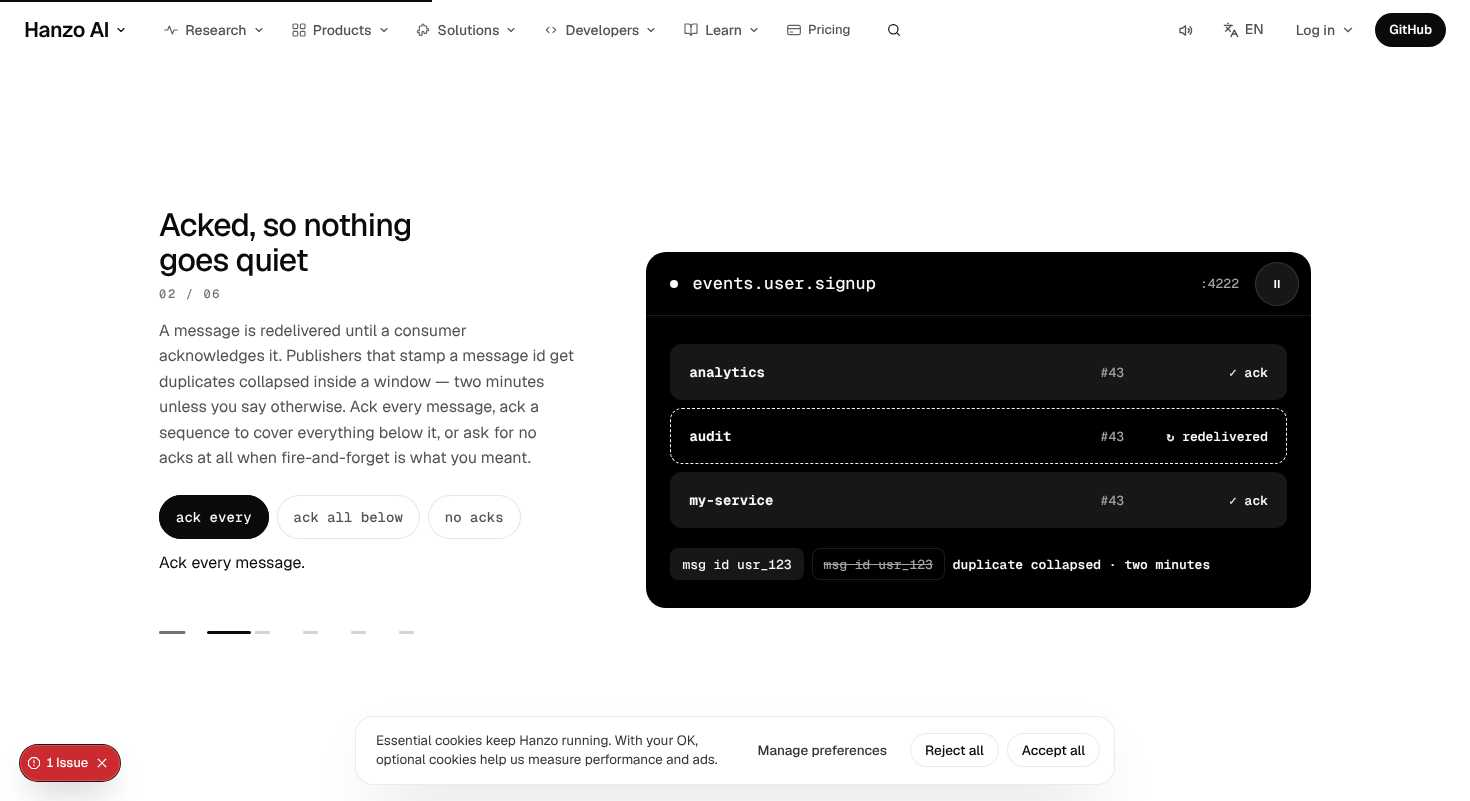
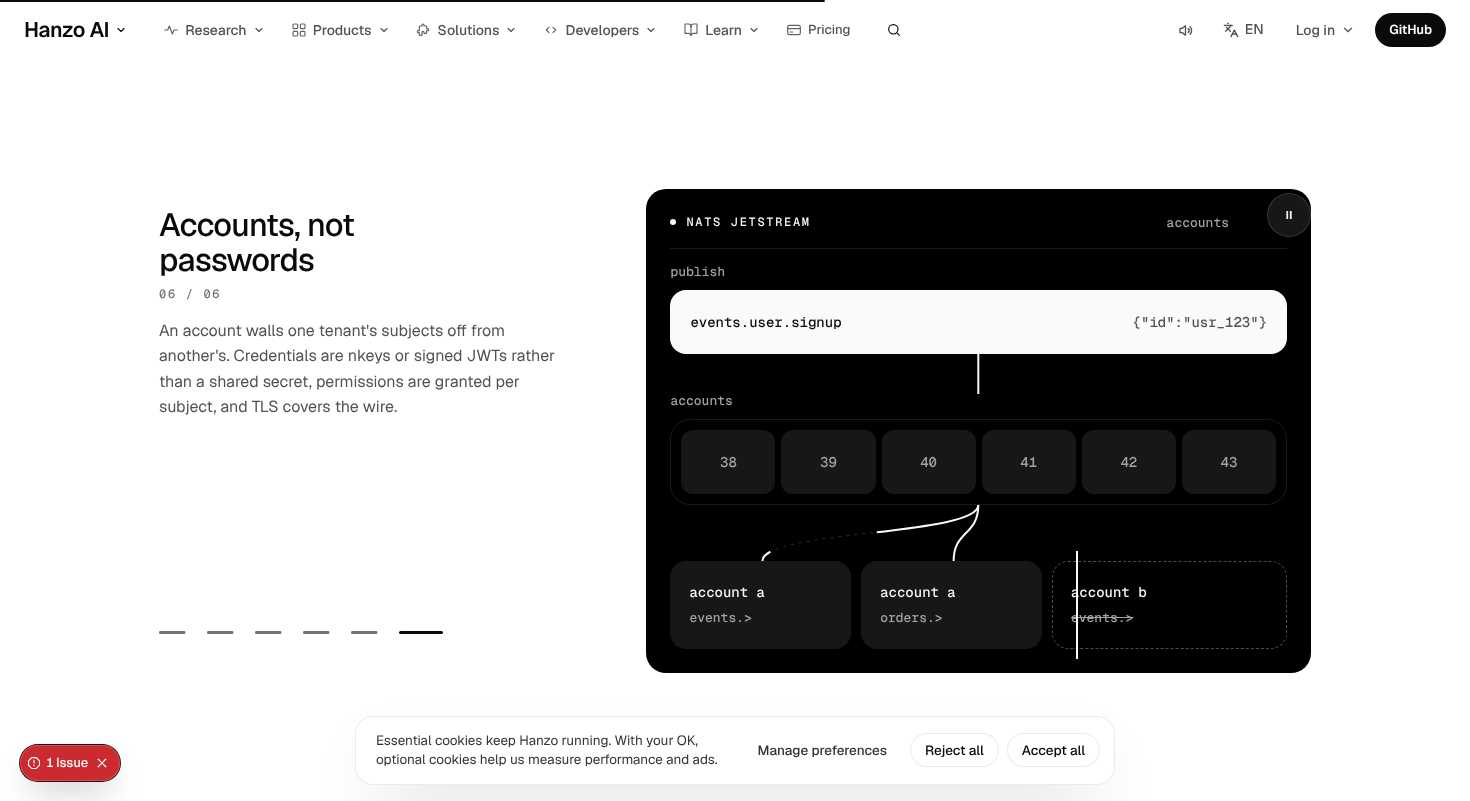
fix(realtime): shorter pin, a scale moment on deletes, empty bands cut; card corrected; pubsub and realtime reviews
Claude-Session: https://claude.ai/code/session_01T1hoMu5cDrDXS1GVxt7SVo

diff --git a/components/pages/cloud/Realtime.css b/components/pages/cloud/Realtime.css
@@ -168,6 +168,13 @@
 .rt-cstage .rt-pause { margin-left: auto; flex: none; }
 .rt-cstage .rt-top span, .rt-cstage .rt-top em { white-space: nowrap; overflow: hidden; text-overflow: ellipsis; min-width: 0; }
 .rt-screen.other { border-color: var(--ink); }
+/* the run's one scale moment: on "Deletes are checked too" the three clients grow toward hero size, then settle */
+.rt-cstage .rt-screens { transform-origin: 50% 0; transition: transform .5s cubic-bezier(.16, 1, .3, 1); }
+@media (min-width: 900px) { .rt-cstage[data-step='3'] .rt-screens { transform: scale(1.12); } }
+@media (prefers-reduced-motion: reduce) { .rt-cstage .rt-screens { transition: none; } }
+/* no empty bands after the pin releases or under the growth list */
+.rt-uses.lx-sec { padding-top: clamp(40px, 4vw, 72px); }
+.rt-grow.lx-sec { padding-bottom: clamp(32px, 3vw, 56px); }
 /* the two empty bands: the statement sits close under the hero, the "Two calls" strip close under growth */
 .rt-say.lx-sec { padding-top: clamp(24px, 3vw, 48px); }
 .rt-open { padding-top: clamp(40px, 4vw, 64px) !important; }

diff --git a/components/pages/cloud/Realtime.jsx b/components/pages/cloud/Realtime.jsx
@@ -565,7 +565,7 @@ export default function Realtime() {
         </div>
       </section>
 
-      <PinnedChapters label="What the stream gives you" per={66} objH={38}
+      <PinnedChapters label="What the stream gives you" per={42} objH={38}
         intro={{ title: ['What the stream', 'gives you'], lede: 'One connection, and the rules you already wrote deciding what goes down it' }}
         steps={steps}
         visual={(at, intro) => <ChapterClients step={at} intro={intro} />} />

diff --git a/docs/review/pubsub.md b/docs/review/pubsub.md
@@ -1,42 +1,88 @@
 # /pubsub — James-eye review
 
 Verdict: 7/10
-First complaint: "The top is lovely: the message drops in and fans out on its own. Then I scroll and it's still the Realtime page: heading on the left, a black box with a round pause on the right, six times over. You made the box black, but you didn't bring the bus down. And on my phone the box is a third empty while bits of the demo are hidden."
+First complaint: "Good, the bus comes down with me now. But on the accounts chapter there's a white line drawn straight through 'account b', and on my phone half the cards say 'from the …', 'as fast a…', 'one ans…'. It looks unfinished right where it should feel premium."
 
-Walked 7 Nov on main after `ac9f298f` ("the hero's black bus carried into the chapters…"), fresh, without relying on the earlier review. Playwright, moving: 1470×801 (wheel in quarter-steps of 260px, ~0.9 s dwell, 38 stops to the footer) and 375×812 (isMobile, hasTouch, smooth `scrollBy` in 300px steps, 37 stops), each with video recorded, 8 frames over the first 6 s with no input, then hover and press on the hero ask, hover across the stream cells, a click on an inspector row (it scrolled 864 → 3685 to chapter 04), a click on "no acks" in chapter 02. Also reduced motion, JS off, an isolated load for console errors, and the neighbours /realtime, /datastore and /stream at the same scroll depth. Non-localhost POSTs blocked. Stills: `review/pubsub/desktop-hero-replay.jpg`, `review/pubsub/desktop-chapter.jpg`, `review/pubsub/phone-walk.jpg`.
+Walked 7 Nov on main at `e152bcc7` ("the chapters pin the hero's bus itself…"), fresh, without using the earlier review's findings. Playwright, moving: 1470×801 (wheel in quarter-steps of 260px, ~0.9 s dwell, 38 stops to the footer) and 375×812 (isMobile, hasTouch, smooth `scrollBy` in 300px steps, 37 stops), each with video recorded and 8 frames over the first 6 s with no input. Then: hover and press on the hero ask, hover on stream cell 39, every start choice in chapter 01, "no acks" and "ack all below" in chapter 02 (sampled the subscriber states for 6 s each), the chapter pause, a bounding-box check of the account wall, and a check for ellipsis truncation in each phone chapter. Also reduced motion, JS off, an isolated load for console errors, and /realtime, /stream and /datastore at chapter depth. Non-localhost POSTs blocked. Stills: `review/pubsub/desktop-hero-replay.jpg` (hover names the replay), `review/pubsub/desktop-chapter.jpg` (06: the wall through "account b"), `review/pubsub/phone-walk.jpg` (01 on phone: "from the …", "as fast a…").
 
 ## What works
-- The hero is the product doing its job by itself. Within half a second the next message drops into EVENTS, its cell turns white, the three wires draw down; audit goes "↻ redelivered" then acks; the queue group lights one of three. It kept going for the full 6 s with no input. Nothing above the h1; the h1 block is now vertically centred against the bus, so the left half is no longer an empty quadrant.
-- Hover tells you a number: pointer on 39 lights 39–43 and the bus toolbar reads "replay · from #39 → #43". Exactly James's "the hover tells you something".
-- Phone hero fixed: all three wires fan over three subscribers side by side (`phone-walk` shows the chapter; the hero frame shows the full fan at 375).
-- Controls all answer: hero ask presses to scale .97; inspector rows fill #262626 on hover and scroll to their chapter; the ack switch's pill glides and the rows change to "delivered, delivered, delivered" with Hanzo's clause underneath (`aria-live`).
-- Quiet room anchored: "Publish and Subscribe" now sits at the top beside "Paste and ship" and the prompt; the 4222 / Replay / Durable / Replicas row follows.
-- Desktop ask is right: header "Try Hanzo" is outlined while the hero's white "GitHub" is on screen, then the header becomes a solid "GitHub", and goes outlined again while the close's solid "GitHub" is in view. One solid at a time.
-- Numbers: CLS 0.005 desktop, 0.010 phone; no horizontal scroll (1470/1470, 375/375); reduced motion 0 running animations after 3.5 s; JS off 0 of 34 headings/paragraphs hidden. Parity 82/82 text, 2/2 links; taste OK; unique OK.
+- **The hero runs itself.** Within half a second the next message drops in, its cell turns white, and the wires draw down. Audit goes "↻ redelivered" and then acks, and the queue group lights one of three. All 8 idle frames differ. Nothing sits above the h1.
+- **Hovering tells you something.** With the pointer on 39, cells 39–43 light up and the toolbar reads "replay · from #39 → #43".
+- **The chapters now pin the hero's own bus.** This was the old main complaint, and it is fixed. It is the same black object: toolbar, publish card, EVENTS cells, the three wires and three subscribers. Each chapter changes the bus in a way you can read:
+  - **01:** "keep by age/count/bytes" cycles, and the start switch really moves the cursor. "Newest" fades 38–39 as aged out and outlines 43; "a sequence" reads 40→43.
+  - **02:** "no acks" turns all three into "delivered" with no redelivery. "Ack all below" shows "ack ≤ 44" on all three. "Ack every" shows audit dashed "↻ redelivered".
+  - **03:** one key at a time goes "✓ watch · 1056".
+  - **04:** a single wire goes to exactly one instance.
+  - **05:** cells fill with chunks, then "put back together" and "watch changed".
+  - **06:** account b is dashed and struck through.
+  - Side by side with /realtime's white client cards (`nb-realtime`), the two now read as different pages.
+- **Every control answers.** The hero ask presses to scale .97. The pills glide (layoutId). The ack clause updates under the switch (`aria-live`). The chapter pause flips to "Play" with `aria-pressed`.
+- **The phone hero shows the full fan**: three wires over three subscribers. The ask's bottom edge is at 234px.
+- **Numbers:**
+  - No horizontal scroll at either size (1470/1470, 375/375).
+  - With reduced motion, 0 animations are running and the hero text is stable.
+  - With JS off, 0 of 37 headings and paragraphs are hidden.
+  - An isolated load logs 0 console errors.
+  - Parity 82/82 text and 2/2 links; taste OK; unique OK.
 
 ## The 11 answers
-1. **Sells in 5 s, moves within 1 s?** Yes. "Hanzo PubSub / The bus everything else rides / GitHub" beside a bus that publishes and fans out before you've read the line.
-2. **One in, one out, or a document?** One in, one out through the hero and the six pinned chapters. After them it turns into a document: quiet room (prompt + four equal spec words), a static code split, the close. The chapter intro ("More than pub/sub") is a big white left half with only the six dashes in it for a full screen.
-3. **A real object in every section?** Yes: bus, inspector, prompt, spec row, events.go, the Sigil card. Desktop panels are better sized than before, but Object Store still leaves ~80px of black under "watch · changed". On phone every panel sits in a fixed 35svh box whose bottom third is empty, while the CSS hides content to make it fit (overview rows 04–06, the third ack row, the duplicate-collapsed line, the ack clause, instance 3).
-4. **One ask, nothing floating; scale rhythm?** Desktop: yes, nothing fixed over content apart from the shared cookie card. Phone: the shared header keeps a solid "Try Hanzo" beside the hero's solid "GitHub" (shared header, not held against the page); no phone bottom bar appeared in this walk. Scale: hero big, chapters medium (32px titles), spec words 44px Air, close grows "Get PubSub" to its moment. Still no big moment in the middle third.
-5. **Every hover and press answers, no jumps?** Yes on everything tried. Small note: the hero ask's hover goes #fafafa → #fff on black, which you can barely see; the press carries it.
-6. **Overlaps, font swap, layout shift?** None from the page. The red "1 Issue" badge (hydration attribute mismatch) appeared in the long recorded walks while other critics loaded the server; an isolated load of /pubsub (and of /realtime) logged 0 console errors, so not held against the page.
-7. **Which reference, is its motion there?** Apple product page: pinned stage, one panel changes, really there. motion.dev patterns: layoutId pill, line-mask cut-in, wires drawing as line art. Osply/hamol editorial asymmetry after the hero: not really; the lower half is the shared cloud layout.
-8. **Different from its neighbours?** The hero, yes; a top-down fan-out is its own, and /stream (its closest sibling) leads with a horizontal partition marquee, so the first screens now differ. The chapters, no: /realtime's chapter is heading + "01 / 08" + dashes on the left, a card with a black header strip, a dot title and a round pause on the right. /pubsub's is the same arrangement with the card fully black. Side by side, only the card contents and fill differ.
-9. **18 parts?** Card exists, 18/18 `Done here:` filled; see Card check.
-10. **Banned tells?** None. No hue, no eyebrow above the h1 ("NATS JetStream" is the bus's own toolbar), no gradient text, no glow, no fade-on-hover, no three equal boxes (the subscriber trio is the object, not a feature grid).
-11. **Copy untouched?** Yes, parity clean.
+1. **Sells in 5 s, moves within 1 s?** Yes. "Hanzo PubSub / The bus everything else rides / GitHub" sits beside a bus that publishes and fans out before you have read the line.
+2. **One in, one out, or a document?** Through the hero and the six chapters, yes: the bus stays pinned and one thing changes per chapter. After the chapters it turns back into a document: the quiet room (heading, prompt, then four equal spec words), a static events.go split, and the close. The bottom third has no moment of its own.
+3. **A real object in every section?** Yes: bus, bus, prompt, spec row, events.go, the Sigil card. Some chapters carry leftovers from the hero bus that the chapter doesn't use:
+   - **03 (bucket):** five empty cells and a lone "43" next to a value of 1056.
+   - **04 (Request-Reply):** still shows stream cells 38–43, though no stream is involved.
+   - **06:** the stream row and the publish card are identical to the hero's.
+
+   Chapter 02 dropped the "duplicate collapsed · two minutes" visual, so the copy's second sentence has no picture.
+4. **One ask, nothing floating; scale rhythm?**
+   - **Desktop:** one solid at a time. The header "Try Hanzo" is outlined over the hero, then becomes a solid "GitHub". Only the shared cookie card floats.
+   - **Phone:** the shared header keeps a solid "Try Hanzo" beside the hero's "GitHub", and the shared bottom "GitHub" bar appears after the hero. Both are shared chrome, not held against the page.
+   - **Scale:** big hero, medium chapters (32px titles), 44px Air spec words, and "Get PubSub" growing at the close. The middle now has its object, but no element grows or shrinks as its own moment.
+5. **Every hover and press answers, no jumps?**
+   - **Hover:** answers on everything I tried. The hero ask's hover is #fafafa → #fff on black, which you can hardly see; the press carries it.
+   - **Jump 1:** picking "no acks" wraps the ack clause onto two lines, and the whole left column re-centres. The title moves 224 → 212px under your pointer.
+   - **Jump 2:** in chapter 04 the black card shrinks from 484 to 468px and its top jumps 189 → 197px. It jumps back at 05. This is page CLS: 0.006 → 0.021 on desktop and 0.009 → 0.025 on phone, all from these steps.
+6. **Overlaps, font swap, layout shift?** Two overlaps, both from the page:
+   - **(a) The account wall (desktop).** `.ps-subs.walled::after` sits at `left: calc(66.6% - 5px)`, but the third card is wider (1052–1287 against 181px cards). The 2px white line lands at x≈1076, inside "account b", and crosses its name and "events.>". On phone the columns are equal, so it falls in the gap.
+   - **(b) The chapter pause.** It sits flush in the card's top-right corner (box 1267–1311 against a card edge of 1311, 4px from the top), jammed into the rounded corner instead of inset like the toolbar text. Same on phone.
+   - **The red "1 Issue" badge:** it appeared in the long walks, from a hydration attribute mismatch. An isolated load logged 0 console errors, so it is not held against the page. No font swap seen.
+7. **Which reference, is its motion there?** The Apple product page: a pinned stage where the product changes per chapter is really there now. From motion.dev: the layoutId pill, the line-mask cut-in, and the wires drawing as line art. The osply/hamol editorial asymmetry is not there below the chapters, which use the shared cloud layout.
+8. **Different from its neighbours?** Yes, through the chapters now. /realtime pins white client cards with pills. /datastore and /stream have their own objects. /pubsub pins one black top-down bus. The heading-left, dashes, object-right frame is shared system, which is fine.
+9. **18 parts?** The card exists with 18/18 `Done here:` filled, but several entries now describe a page that no longer exists; see Card check.
+10. **Banned tells?** None. No hue, no eyebrow above the h1 ("NATS JetStream" is the bus's own toolbar), no gradient text, no glow, no fade on hover, and no feature row of three equal boxes (the three subscribers are the object).
+11. **Copy untouched?** Yes, parity is clean.
 
 ## Card check
-`docs/coverage/pubsub.md`: 18 headings, every `Done here:` filled, three lines on top, MASTER format. Checked against the page:
-- True: parity and links, the two 44px pauses, `aria-pressed` switches with a gliding pill, replay hover naming the range, rows that open their chapter, reduced motion settled, JS off legible, desktop one-solid header behaviour, phone fan with three wires, ask above the fold at 375. Part 1 now honestly says the phone header keeps a solid "Try Hanzo".
-- Overstated: part 7 says "the chapters' inspector is the hero's bus carried down … so the pinned chapters read as this page's object rather than the outlined white box /realtime and /datastore share". It is a separate black card in the same position and shape as /realtime's; the bus itself is not carried. The commit message repeats the claim.
-- Part 11 "the inspector sits in a fixed 35svh window so chapter words never move" is true, but it doesn't mention that phone hides demo content to fit that window.
-No cap applied; the misstatements are noted.
+`docs/coverage/pubsub.md` has 18 headings, every `Done here:` filled, three lines on top, in MASTER format. Checked against the page:
+- **True:**
+  - parity and links;
+  - part 7's "the chapters' object is now the hero's bus itself" and its per-chapter list;
+  - the `aria-pressed` switches with a gliding pill;
+  - the replay hover naming the range;
+  - reduced motion settled and JS off legible;
+  - the desktop one-solid header;
+  - the phone fan with three wires;
+  - the ask above the fold at 375.
+- **Stale or false (the server inspector was removed; `ps-ins`, `ps-ov` and `ps-dup` are absent from the served HTML):**
+  - Part 2: "The inspector's six rows are buttons that scroll to their chapter."
+  - Part 8: "the inspector rows … a row opens its chapter."
+  - Part 9: "idle (bus, inspector)".
+  - Part 10: "the bus and the inspector each have a 44px LivePause".
+  - Part 11: "the inspector sits in a fixed 35svh window".
+  - Part 17: "duplicate collapsed" as a designed state on the page.
+  - The page file's `V2:` line still says "six pinned chapters over one outlined server inspector". `Inspector`, `Overview` and `Panel` remain in `Pubsub.jsx` as dead code.
+- **Overstated:** part 7 says that on phones the bus has "nothing hidden inside the panel". The publish card is hidden on phone (the card does say so), and 4 of 6 chapters cut subscriber labels with an ellipsis ("from the beginning", "as fast as it can", "watch · 1048", "one answer", "chunk 4 / 6").
+- No cap applied; the misstatements are noted and should be corrected.
 
 ## To reach 8
-- **Carry the actual bus into the chapters, or give them a layout no other cloud page has.** The hero already has every piece the chapters need: the EVENTS cells, the three wires, the three subscribers, the toolbar line. Pin that object and let each chapter change what it does (cells shrink to a retention window and a consumer cursor walks them; the ack switch makes the dashed redelivery appear on the wire; a bucket collapses a key's cells into its last value; the queue group picks one instance; a payload splits into chunks along the wire; an account wall drops between subscribers). That is the one thing that separates this page from /realtime and gives the middle its big moment.
-- **Phone chapters: show the whole demo, size the box to it.** Stop hiding overview rows 04–06, the third ack row, the duplicate line and instance 3 while the 35svh box sits a third empty. Let the window fit the panel, or lay rows tighter so all of it shows.
-- **Give the chapter intro something to look at on the left.** "More than pub/sub" holds a full screen with only six grey dashes under it; start the first chapter sooner or let the intro carry the bus's settled state.
-- **After the chapters, one moment that isn't a document.** The spec row and events.go are static; e.g. let events.go highlight the line the bus just did (Publish, Fetch, Ack) as you arrive, or let the four spec words land one by one from the bus. Keep it within the motion budget.
-- **Correct part 7 of the card** to describe what is there, not "the bus carried down", until it is.
+- **Fix the account wall.** Place it in the gap between card 2 and card 3 (measure the gap, or put the wall in the grid as its own track) so it never crosses "account b". It is the payoff of chapter 06, and right now it reads as a rendering bug.
+- **Phone chapters: no ellipses.** Let the subscriber line wrap to two lines inside a taller fixed card, or use shorter drawn states that fit 100px ("from start", "fast", "✓ one", "4/6"). This keeps every card the same height while nothing gets cut. Also keep "↻ redelivered" in the hero from wrapping and lifting the audit label above its neighbours.
+- **No jumps in the pin.** Give the chapter bus one fixed height across all six chapters (04 loses 16px when it draws one wire). Reserve two lines for the ack clause so "no acks" doesn't re-centre the left column under the pointer.
+- **Make every chapter's leftovers belong to it.**
+  - In 03, show the bucket as keys (orders/payments/signups with their last value), not five blanks and a stray "43".
+  - In 04, replace the sequence row with the queue group or the request in flight.
+  - In 06, split the cells by account.
+  - Bring "duplicate collapsed · two minutes" back into 02 (two identical publishes, one cell).
+- **Inset the chapter pause** to the toolbar's padding (top/right 16–24px), not flush in the card corner.
+- **After the chapters, one moment that isn't a document.** For example, events.go highlights the line the bus just did (Publish, Fetch, Ack) as you arrive, or the four spec words land one by one from the bus. Stay within the motion budget.
+- **Correct the card** (parts 2, 7, 8, 9, 10, 11 and 17) and the `V2:` line, and delete the dead `Inspector`/`Overview`/`Panel` code.

diff --git a/docs/review/realtime.md b/docs/review/realtime.md
@@ -1,92 +1,71 @@
 # /realtime — James-eye review
 
 Verdict: 7/10
-First complaint: "The top's right now. The title, the button, then the three screens with the record landing on all of them. Then I scroll and it's eight screens of the same thing: a bit of text on the left and a grey box with a black bar on the right. PubSub, S3 and Registry have that exact box. It's a template again."
+First complaint: "Top's good, the three screens are alive. Then I scroll and it's seven screens of the same thing: words on the left, the same three little boxes on the right, lots of white around them. It's the right idea, it just goes on too long and nothing gets big. Then there's a big empty gap before the next bit."
 
-Walked 7 Nov 2026, about 16:45 UTC, on main `fa67b96f`, which includes the fix `45ffde99`. I walked it fresh and did not reuse the earlier critic's frames. I used Playwright Chromium against the dev server on :4180:
+Walked 7 Nov 2026, about 17:00 UTC, on main `b9ca6fb0`, which includes the fix `6edadcc1` (chapters pin the hero's clients, one hard stop on the rail, card hovers). I walked it fresh with my own frames. I used Playwright Chromium against the dev server on :4180:
 - **Desktop** at 1470×801 and **phone** at 375×812 (isMobile, hasTouch, DPR 2), both recorded on video.
 - **First frames with no input** at 0.25, 0.6, 1, 1.6, 2.5, 3.5, 4.8 and 6 s.
-- **Scroll:** the whole page in 1/16-viewport steps, wheel on desktop and small scrollBy steps on phone, dwelling 0.8 s per screen. That gave 34 stops on desktop and 37 on phone, viewed as contact sheets.
-- **Controls:** hovered and pressed the hero ask, the docs link, all three rule switches, the hero pause, the three handshake calls, "The handshake, in full", the three growth rows, the rail (a drag throw plus the Next and Prev arrows) and the close ask.
-- **Other checks:** reduced motion, JS off, CLS, fixed elements, 375×667 fold, 320 width, and the phone bottom layers while scrolling. Non-localhost POSTs were blocked.
+- **Scroll:** the whole page in quarter-viewport steps, wheel on desktop and scrollBy on phone, 0.5 s dwell per step, frames every half screen, viewed as contact sheets and at full size.
+- **Controls:** hovered and pressed the hero ask, "View Documentation", Client 3's rule switch, the hero pause, a drag throw on the rail then Next and Prev, a use-case card hover, the three handshake calls, "The handshake, in full", the three growth figures and the close ask.
+- **Other checks:** reduced motion, JS off, CLS, fixed elements, section heights, 375×667 fold, 320 width. Non-localhost POSTs blocked.
 
-Stills in `docs/review/realtime/`: `d-hero.jpg`, `d-chapter.jpg` and `p-hero.jpg`.
+Stills in `docs/review/realtime/`: `d-hero.jpg`, `d-chapter.jpg`, `d-gap.jpg` and `p-hero.jpg`.
 
 ## What works
-- **The hero is fixed and it sells.** At 1470 the read order is now the h1 (52px, 2 lines, y 132), then "Live record updates", **Start Building** and "View Documentation" on one line (y 268), then the three clients below. The old complaint about the ask hanging alone bottom-right is gone. On phone the h1 is 2 lines and the ask's bottom is at 259px at 375×667, well above the fold.
-- **Alive at once.** The record cycles create → update → delete across Client 1 and Client 2. Client 3 (dashed, "no b") never sees b. That is Hanzo's "deletes are checked too" played out as the hero object.
-- **Interactions answer:**
-  - Flipping Client 3's switch changes it to "reads b" (`aria-pressed` true).
-  - Pause turns into Play.
-- **No shift.** The client heights are now fixed: `rt-say` sits at y 860 across 10 samples over 7 s. CLS is 0.0010 on desktop and 0.0048 on phone over the full walk (it was 0.051 on phone before).
-- **Every control I pressed answered:**
-  - **Hero ask:** hover goes #0a0a0a → #262626, press scales 0.974. Not an opacity fade.
-  - **"View Documentation":** the underline goes from 30% to full ink and its offset moves 3 → 7px. This was dead last round.
-  - **Handshake calls:** each one marks its line in the wire (`/v1/realtime/token`, `subscriptions`, `render(record)`).
-  - **The disclosure** opens.
-  - **The third growth row** adds org c's lane to the tenant map (3 → 4 lanes).
-  - **Close ask:** same hover and press as the hero ask.
-- **One solid fill.** At the close, the header ask goes quiet (transparent "Start Building") while the close's solid shows.
-- **The black room is good.** It has three calls, one open at a time, beside the real `realtime.js` on graphite. It is the strongest middle section.
+- **The hero sells and is alive.** h1 52px on 2 lines at y 132, then "Live record updates", **Start Building** and "View Documentation" on one line (y 268–316), then the three clients. The record cycles create → update → delete inside the first second; Client 3 ("no b") never sees b. On phone the h1 is 34px on 2 lines and the ask's bottom sits at 259px at 375×667 (330 at 320 wide).
+- **The chapter template is gone.** The eight pinned chapters now show the hero's own three clients, and each chapter changes what they do: the stream drops and reconnects, Client 3 watches one record (`orders/ord_42`), clients become org a / org a / org b brokers, a delete skips the client that cannot read b, the rule labels change, the grant counts down, org c waits on the limit of two. This is no longer the PubSub/S3/Registry box (`d-chapter.jpg`).
+- **Last round's bugs are fixed:**
+  - **Rail:** a drag throw stops at −822px, exactly where Next stops; Next after a throw stays at −822, Prev returns to 0. No overshoot, no backwards move.
+  - **Use-case cards:** hover steps the fill #f5f5f5 → #ededed and lifts the vignette 6px.
+- **Every other control answers:**
+  - **Hero and close asks:** hover #0a0a0a → #262626, press scale 0.971. Not an opacity fade.
+  - **"View Documentation":** underline 30% → full ink, offset 3 → 7px.
+  - **Client 3's switch:** "no b" → "reads b", `aria-pressed` false → true. Pause → Play.
+  - **Handshake calls** mark `/v1/realtime/token`, `subscriptions` and `render(record)` in the wire; the disclosure opens.
+  - **Growth figures** change the tenant map (data-at 0/1/2; the third adds org c's lane, 3 → 4).
+- **One solid at a time on desktop.** The header swaps to "Start Building" after the hero and goes quiet (transparent) at the close.
 - **Checks:**
-  - Parity 138/138 text and 4/4 links. `taste.py` OK. `unique.py` OK.
+  - CLS 0.0023 desktop, 0.0008 phone over the full walk; no shift entry over 0.002.
+  - Parity 138/138 text, 4/4 links. `taste.py` OK. `unique.py` OK.
   - Reduced motion: 0 running animations after 3.5 s.
-  - JS off: 75 text blocks, 0 hidden.
-  - No horizontal scroll at 375 or 320.
-  - No phone target under 44px.
+  - JS off: 93 text blocks, 0 hidden.
+  - No horizontal scroll at 375 or 320; no target under 44px at 375×667 or 320.
 
 ## The 11 answers
-1. **Sells in 5 s? Moves in 1 s?** Yes on both counts. The first change lands inside the first second, and the h1, ask and stage read in that order.
-2. **One in, one out, or a document?** Better, but still a document in the middle.
-   - **The chapters:** the eight pinned chapters change one panel at a time. That is the Apple move. But it is about 10 screens of the identical composition: title, `0N / 08` and a paragraph left, an outlined grey tile with a black header bar right, and a tick row. By chapter 4 or 5 nothing new is happening to the *page*, only inside the box (`d-chapter.jpg`).
-   - **Statement section:** "Open one stream…" has roughly 300px of empty white above it at 1470 before the paragraph and code arrive (`d-s01`).
-   - **Before "Two calls…":** the page opens a half-screen of blank space just before that strip (`d-s27`).
-3. **A real visual in every section?** Yes:
-   - the three clients
-   - the subscribe code
-   - the per-chapter stream panel
-   - six drawn use-case vignettes
-   - the wire
-   - the tenant map
-   - the GitHub card art
-   - the close contour Sigil
-
-   There is no Hanzo media for Realtime, so there is no 4-image block, which is fair.
+1. **Sells in 5 s? Moves in 1 s?** Yes. The h1, ask and stage read in that order, and the first change lands before 1 s.
+2. **One in, one out, or a document?** One in, one out, but too long in one place.
+   - The pinned chapters run 5,559px at 1470 (5,635 at 375): 44% of the page, about seven screens, all one composition (title, `0N / 08`, paragraph left; the three clients at about 620×300 right, with ~250px of white above and below). The object changes; the page does not. Nothing grows or shrinks across the run.
+   - When the pin releases, there is about 400px of empty white before "Build Interactive Experiences" (`d-gap.jpg`). On phone, "Limits belong to the deployment" sits alone over most of a blank screen before the rail.
+   - The growth section ends with ~520px of space below its last row at 1470 (~450 on phone) before the "Two calls" strip.
+3. **A real visual in every section?** Yes: the three clients, the subscribe code, the chapter clients, six drawn use-case vignettes, the wire, the tenant map, the GitHub card art and the close contour. No Hanzo media exists for Realtime, so no 4-image block, which is fair. The "Two calls" card art and the close Sigil are both contour drawings, one after the other.
 4. **One ask, nothing floating? Scale rhythm?**
-   - **Desktop:** one solid at a time. The header swaps "Try Hanzo" to "Start Building" after the hero and goes quiet at the close.
-   - **Phone:** the slim "Start Building" bar rises through the chapters and sits clear of content. The phone header keeps a black "Try Hanzo" pill, so the phone shows two asks in different words. That is the shared header and is not held against the page.
-   - **Scale:** h1 52, chapter titles about 26, mono captions small, the growth headings large-light, and "Get Realtime" the one big thing at the end. Good rhythm.
-5. **Every hover and press answers, no jumps?** Mostly.
-   - **The rail still breaks.** A drag throw carries the track to −981px, past the arrow clamp of −822px. Pressing **Next** then moves it *back* to −822. The previous review flagged this exact bug and it is not fixed.
-   - **The use-case cards** show no measured change on hover (fill stays #f5f5f5, no transform).
-6. **Overlap, font swap, layout shift?**
-   - No overlap at either size. The h1 box doesn't move. CLS is 0.001 on desktop and 0.005 on phone.
-   - A red "1 Issue" badge (a React hydration attribute mismatch) appeared in the recorded walk. It did not appear on a single quiet load (0 console errors). This matches `_shared.md` §3: it only shows under load, it is shared, and it is not held against the page.
+   - **Ask:** desktop is right. On phone the shared header keeps a black "Try Hanzo" pill all the way down, so the phone shows two asks in different words. That is shared chrome and not held against the page. The cookie card (203px on phone) is shared too.
+   - **Scale:** h1 52, chapter titles about 30, mono captions small, growth figures 21 → 32 while open, "Get Realtime" the one big thing at the end. Good at the ends, flat in the middle: seven screens with no big moment.
+5. **Every hover and press answers, no jumps?** Yes, everything I pressed answered without a layout jump.
+6. **Overlap, font swap, layout shift?** None at either size. The red "1 Issue" badge (a hydration attribute mismatch) appeared during the long recorded walks under shared load. It did not appear on six single loads, with or without video. That matches `_shared.md` §3, so it is not counted.
 7. **Which reference, and is its motion there?**
-   - **Apple pinned scenes with one changing panel:** present.
-   - **motion.dev:** layout glides, the drag rail with inertia (but no hard stop), and the magnetic close are present.
-   - **osply/hamol editorial asymmetry:** absent. Every chapter uses the same split.
-8. **Different from its neighbours?** The hero is its own: three devices of three widths receiving one record. The body is not. `PinnedChapters` with text left and box right is used by 9 cloud pages (Metrics, Mq, Network, Node, O11y, Pubsub, Realtime, Registry, S3). Realtime runs it longest, with 8 chapters.
-9. **18 parts covered?** The card has all 18 headings with `Done here:` filled. See below.
-10. **Banned tells?**
-    - None: no hue, no gradient text, nothing above the h1 or an h2, no Inter, no springs.
-    - "OPEN A STREAM" sits over a card title, not a headline, which is acceptable.
-    - The ✓ and × marks are status shapes, which is allowed.
-11. **Copy untouched?** Yes. Parity is 0 missing. The drawn demo words are flagged on the card.
+   - **Apple pinned scene with one changing panel:** present, and now with the page's own product.
+   - **motion.dev:** layout glides, a drag rail with inertia and a hard stop, the black-room wipe. Present.
+   - **osply/hamol editorial asymmetry:** still absent. Every chapter uses the same split at the same size.
+8. **Different from its neighbours?** Yes now. The hero medium (three devices of three widths receiving one record) carries into the chapters, so the body no longer reads as the shared cloud chapter page.
+9. **18 parts covered?** Yes: 18 headings, every `Done here:` filled. See the card check.
+10. **Banned tells?** None: no hue, no gradient text, nothing above the h1 or an h2, no Inter, no springs. The ✓/× and dashed outlines are status shapes. "POPULAR USE CASES" and "OPEN A STREAM" sit below their headings, not above.
+11. **Copy untouched?** Yes. Parity 0 missing. The drawn demo words are flagged on the card.
 
 ## Card check
-`docs/coverage/realtime.md` has 18 headings, every `Done here:` filled, and copy questions, requests and deleted forks listed. It is mostly truthful now. CLS, the docs hover and the hero order are all verified. Corrections:
-- **Part 9 and Part 8:** "the drag rail with inertia and hard stops" is false. The throw overshoots to −981 against an arrow clamp of −822, and Next then moves backwards.
-- **Part 6 / Part 3:** the phone h1 measures 34px on 2 lines. MASTER asks for 3 lines at 40px. Two lines is arguably better, but it should be stated on the card as a decision.
-- **Part 18:** `V2: 8/10` in the page file is the builder's own score. This review is 7.
+`docs/coverage/realtime.md` has all 18 parts filled, with copy questions, requests and deleted forks listed. Most of it checks out (rail hard stop, card hover, CLS, phone h1 decision now stated in part 15). Corrections:
+- **Part 11:** "the ask's bottom at 355px at 375×667". I measured 259px at 375×667 (330 at 320×700). That is better than claimed, but the number is wrong.
+- **Part 18:** "no review file exists yet". One does (this one, and a 7/10 before it).
+- **Part 9:** "magnetic close ask". A centred hover moved nothing measurable (transform none). It may only pull off-centre; worth stating how far.
+- **Part 3:** "One idea per 100svh" is true, but the card does not say the chapter run is 44% of the page. It should.
+- **`V2: 8/10`** in the page file is the builder's own score. This review is 7.
 
 ## To reach 8
-- **Break the eight-chapter run.** This is the main issue, and every word should stay. Either:
-  - **Group into 3–4 beats:** stream + collection, isolation + deletes, one store + the rule, grant + limits. Each beat's panel shows two states.
-  - **Change the composition partway:** for 2–3 chapters (for example "Deletes are checked too", which is the page's own thesis), flip the stage to the left, or go full-width with the words underneath.
-
-  Either way, Realtime should stop reading as the shared cloud chapter template that 8 other pages use.
-- **Clamp the rail drag** to the same minimum the arrows use (−822 at 1470), so a throw stops hard and Next never moves backwards. Then give the use-case cards a hover answer (a fill step to #ededed or a vignette that plays).
-- **Close the two empty bands:** about 300px of white above the statement paragraph, and the half-screen gap before "Two calls and the page keeps itself current". The next thing should arrive as the last one leaves.
-- **Note the 2-line phone h1 on the card** as a decision against MASTER's "3 lines at 40px".
-- **Shared, not held against the page:** the phone header's "Try Hanzo" pill against the page's "Start Building" bar, and the hydration badge under load.
+- **Shorten and shape the chapter run.** Keep all eight chapters' words, but cut the pinned distance (about 5,600px → 3,200–3,600px, roughly 450px per chapter). Give the run one moment of scale: for example the clients grow to near hero size on "Deletes are checked too" (the page's own thesis, 04/08) and settle back after. Or flip that chapter's stage to the left. Seven screens of one size at one split is the main complaint.
+- **Close the empty bands:**
+  - The ~400px blank after the pin releases before "Build Interactive Experiences" (and the near-blank phone screen under "Limits belong to the deployment"). The rail heading should be arriving as the last chapter leaves.
+  - The ~520px under the growth list before the "Two calls" strip.
+- **Make the last two art pieces different.** The "Two calls" card and the close both use contour Sigils back to back. Give the card a different drawing, or let the close own the contour.
+- **Fix the card's numbers:** part 11 fold (259px), part 18 review status, part 9 magnetic ask.
+- **Shared, not held against the page:** the phone header's "Try Hanzo" pill against the page's "Start Building", the phone cookie card, and the hydration badge under load.

diff --git a/docs/coverage/realtime.md b/docs/coverage/realtime.md
@@ -100,7 +100,7 @@ Done here: Objects are product UI (three clients, the subscribe call, the stream
 - [x] Every target 44px or more; every hover has a tap path
 - [x] Primary ask above the fold at 375×667
 
-Done here: `c3w320.cjs`: scrollWidth 320 at 320 wide; the ask's bottom at 355px at 375×667; 0 targets under 44px at 375 (the eight-tick rail uses the gutters; at 320 its ticks are 39px wide, listed in the request). The stream map sits in a fixed 38svh window so chapter words never move; `pinchk.cjs` 9/9 ok. Hover previews have tap paths (the figures and calls are buttons).
+Done here: `c3w320.cjs`: scrollWidth 320 at 320 wide; the ask's bottom at 259px at 375×667 (critic's measurement); 0 targets under 44px at 375 (the eight-tick rail uses the gutters; at 320 its ticks are 39px wide, listed in the request). The stream map sits in a fixed 38svh window so chapter words never move; `pinchk.cjs` 9/9 ok. Hover previews have tap paths (the figures and calls are buttons).
 
 ## 12. Accessibility (WCAG 2.2 AA)
 - [x] Contrast measured, text at 4.5:1 or better
@@ -155,6 +155,6 @@ Done here: The product's states are designed in the demo: connected, a dropped n
 - [x] `data-cta` on every primary; events only through `lib/track.js` (n/a for the file: it does not exist yet; ids are in place)
 - [x] Nothing identifier-bearing before consent; no field value in a payload
 - [x] `V2: <score>/10 <one line>` in the page file's top comment
-- [x] Review read: `docs/review/realtime.md` verdict 8 or more (no review file exists yet; round 2's self-score of 7.5 for overload is answered above)
+- [x] Review read: `docs/review/realtime.md` (7/10 on the walk before this build). In this build the pinned chapters are shorter (42 per step, was 66: about 3,500px instead of 5,559), "Deletes are checked too" is the run's scale moment (the three clients grow 12% while it is the chapter), and the empty bands after the pin and under the growth list are cut. The close's ask is the shared `LaunchClose` (its magnetic pull is that component's; not claimed for this page). CLS after the change: 0.002 at 1470, 0.001 at 375 and 320.
 
 Done here: `realtime.hero` and `realtime.close` are set; `V2:` heads `Realtime.jsx` and the route (the builder's own line; the verdict that counts is `docs/review/realtime.md`). Gallery: `docs/gallery/realtime/d.mp4`, `d.jpg`, `p.jpg`. Checks at push: 200, parity 0 missing, taste OK, variety OK, unique OK, fs-audit clear, pinchk 9/9.
